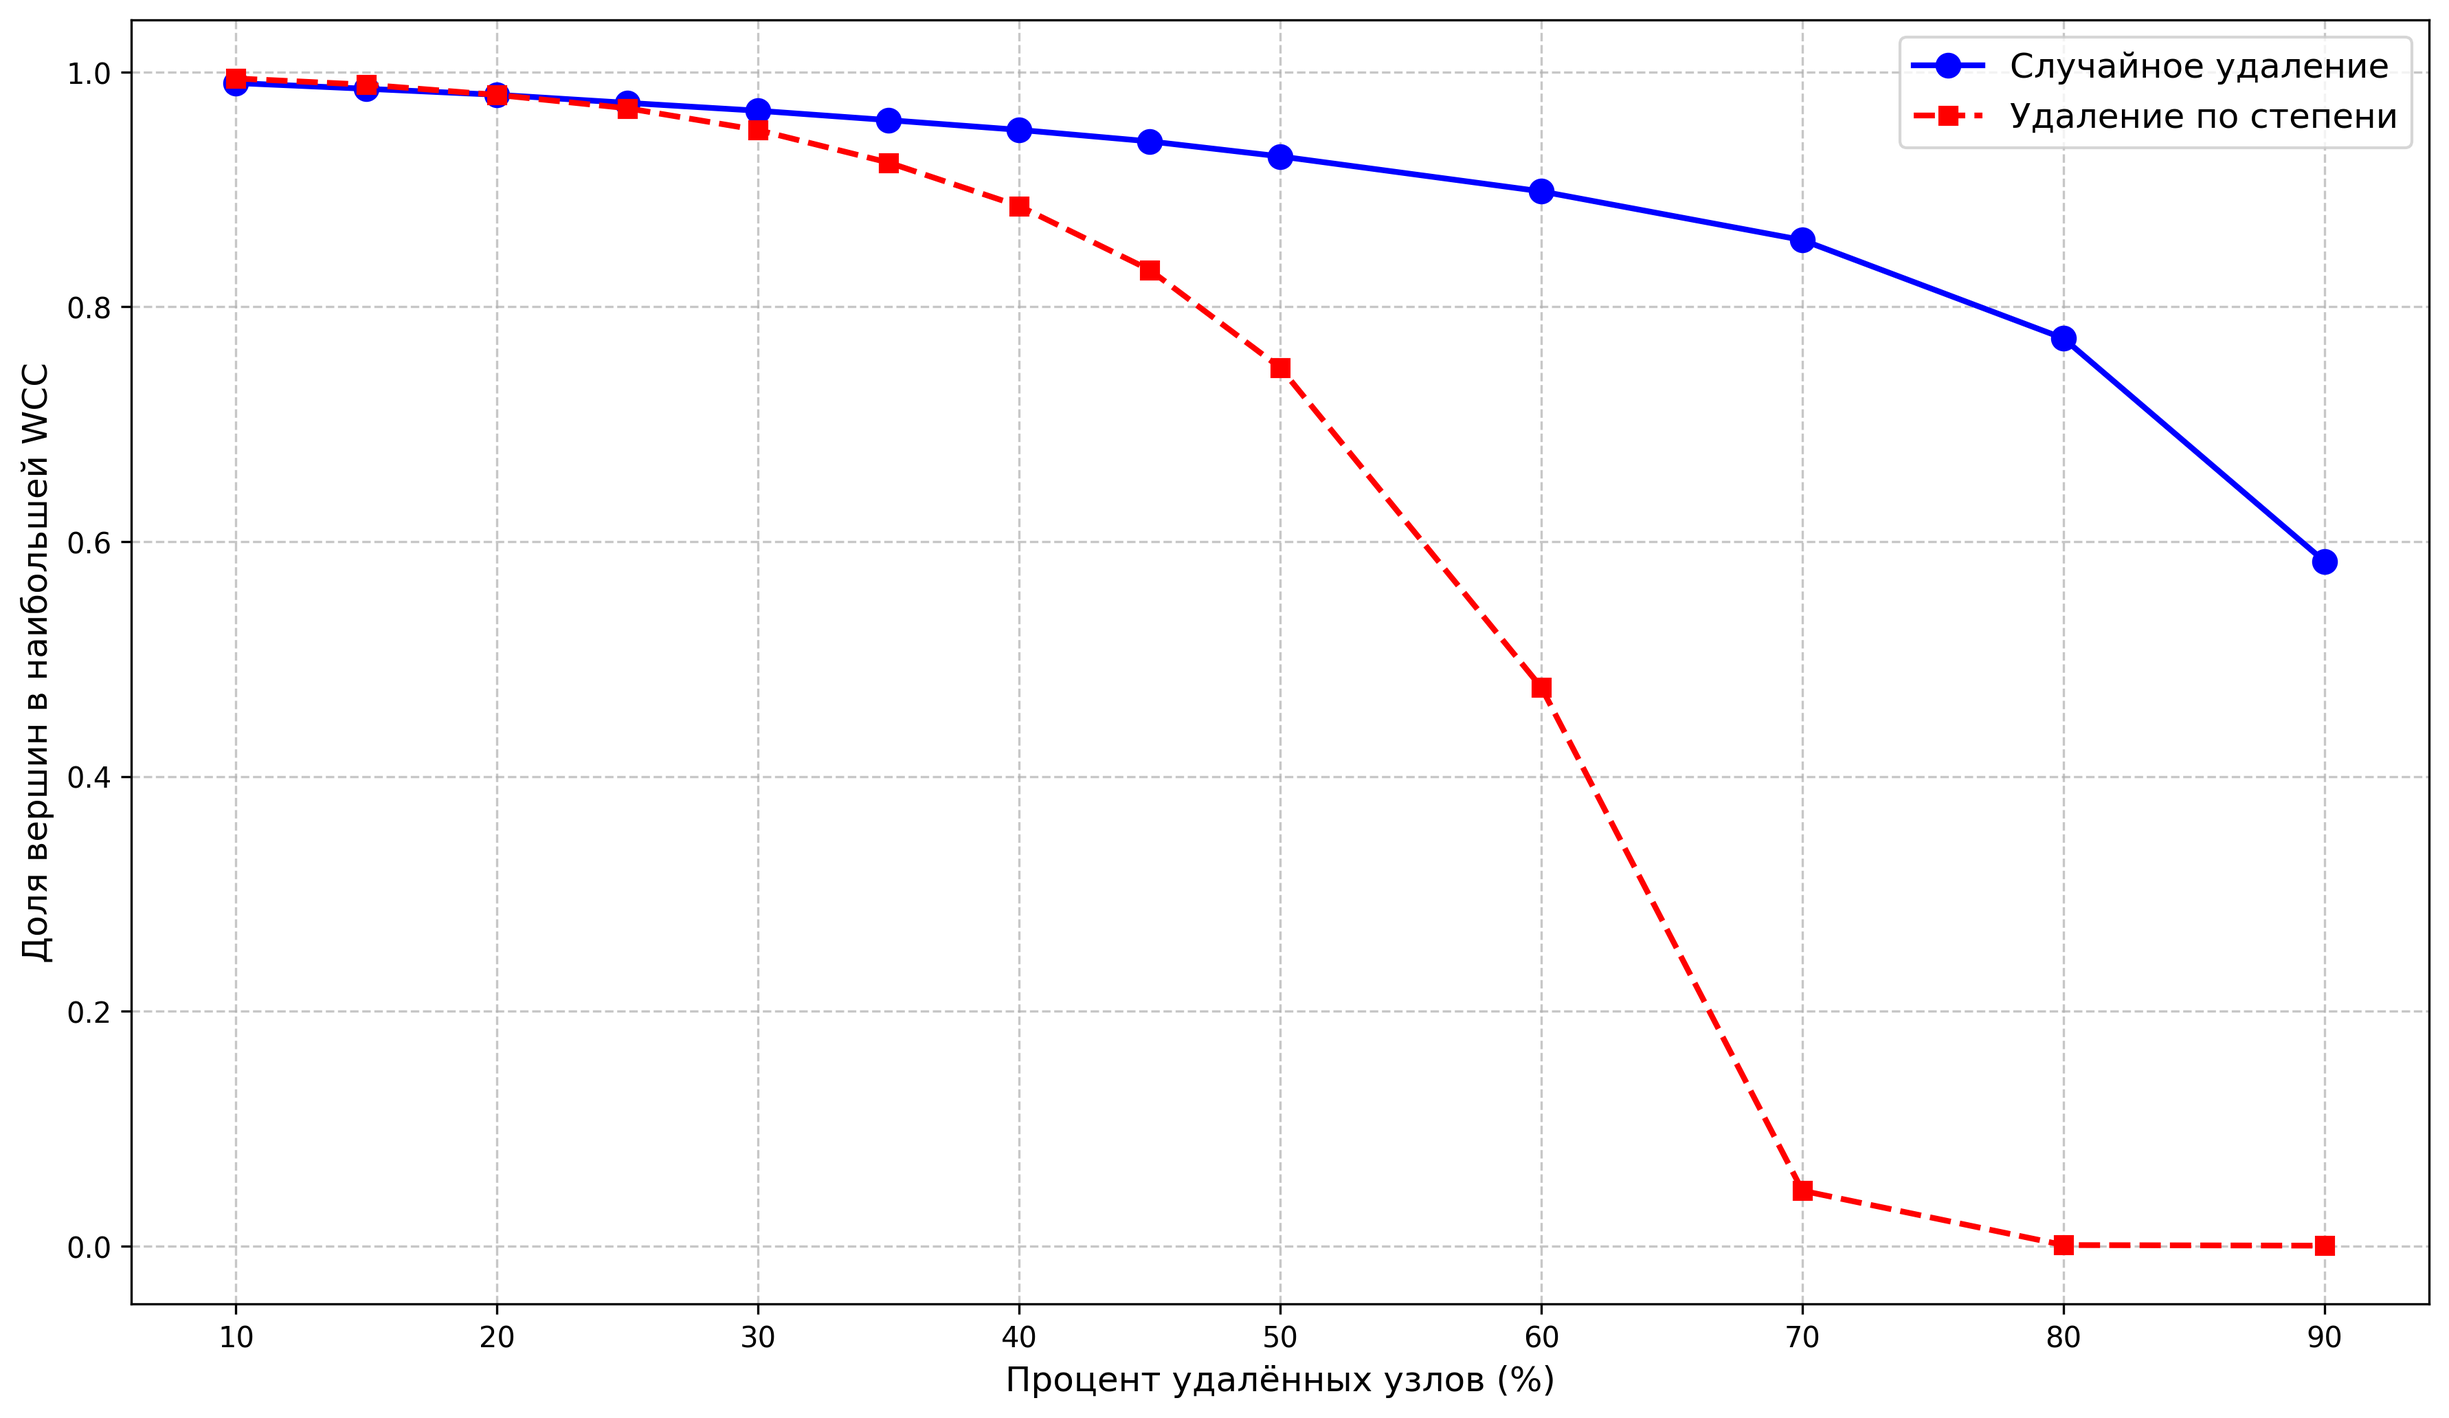
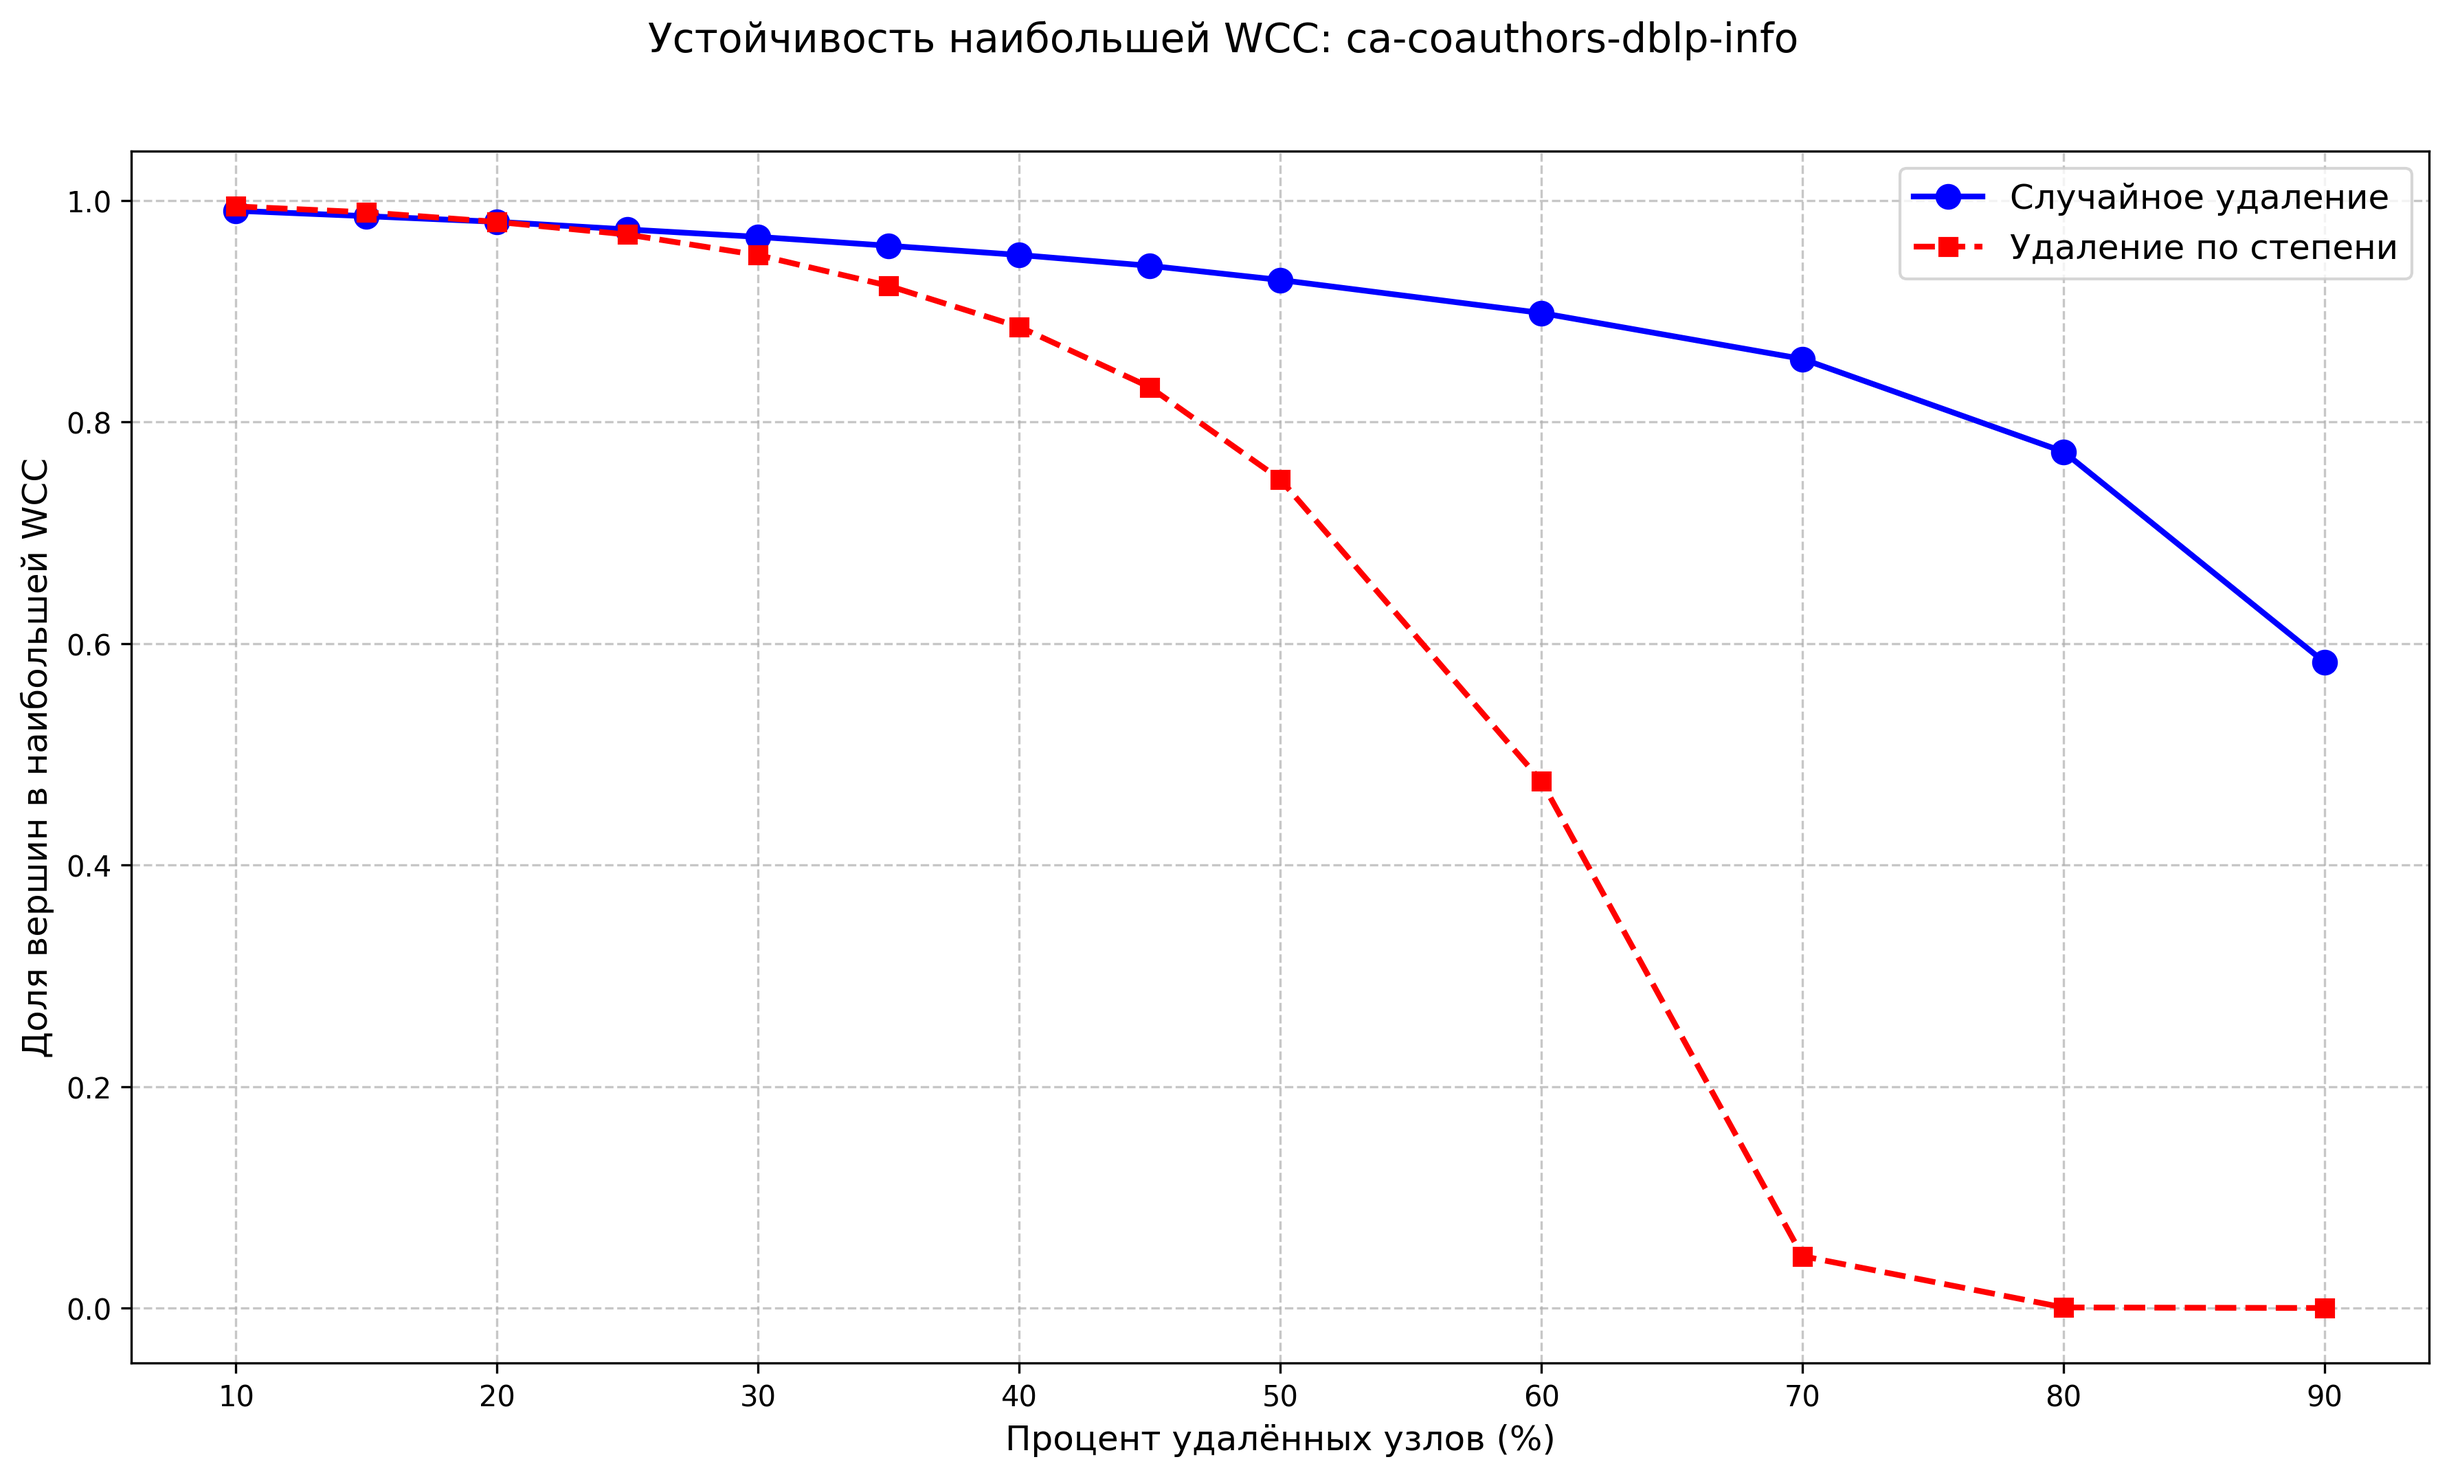
added grahics names

diff --git a/src/visualization/largest_wcc.py b/src/visualization/largest_wcc.py
@@ -45,6 +45,10 @@ for filename in data_files:
     y_degree = list(biggest_data.values())
 
     plt.figure(figsize=(12, 7))
+
+    graph_name = os.path.splitext(filename)[0]
+    plt.suptitle(f'Устойчивость наибольшей WCC: {graph_name}', fontsize=14, y=1.02)
+
     plt.plot(x_random, y_random, 'b-o', label='Случайное удаление', linewidth=2, markersize=8)
     plt.plot(x_degree, y_degree, 'r--s', label='Удаление по степени', linewidth=2, markersize=6)
 
